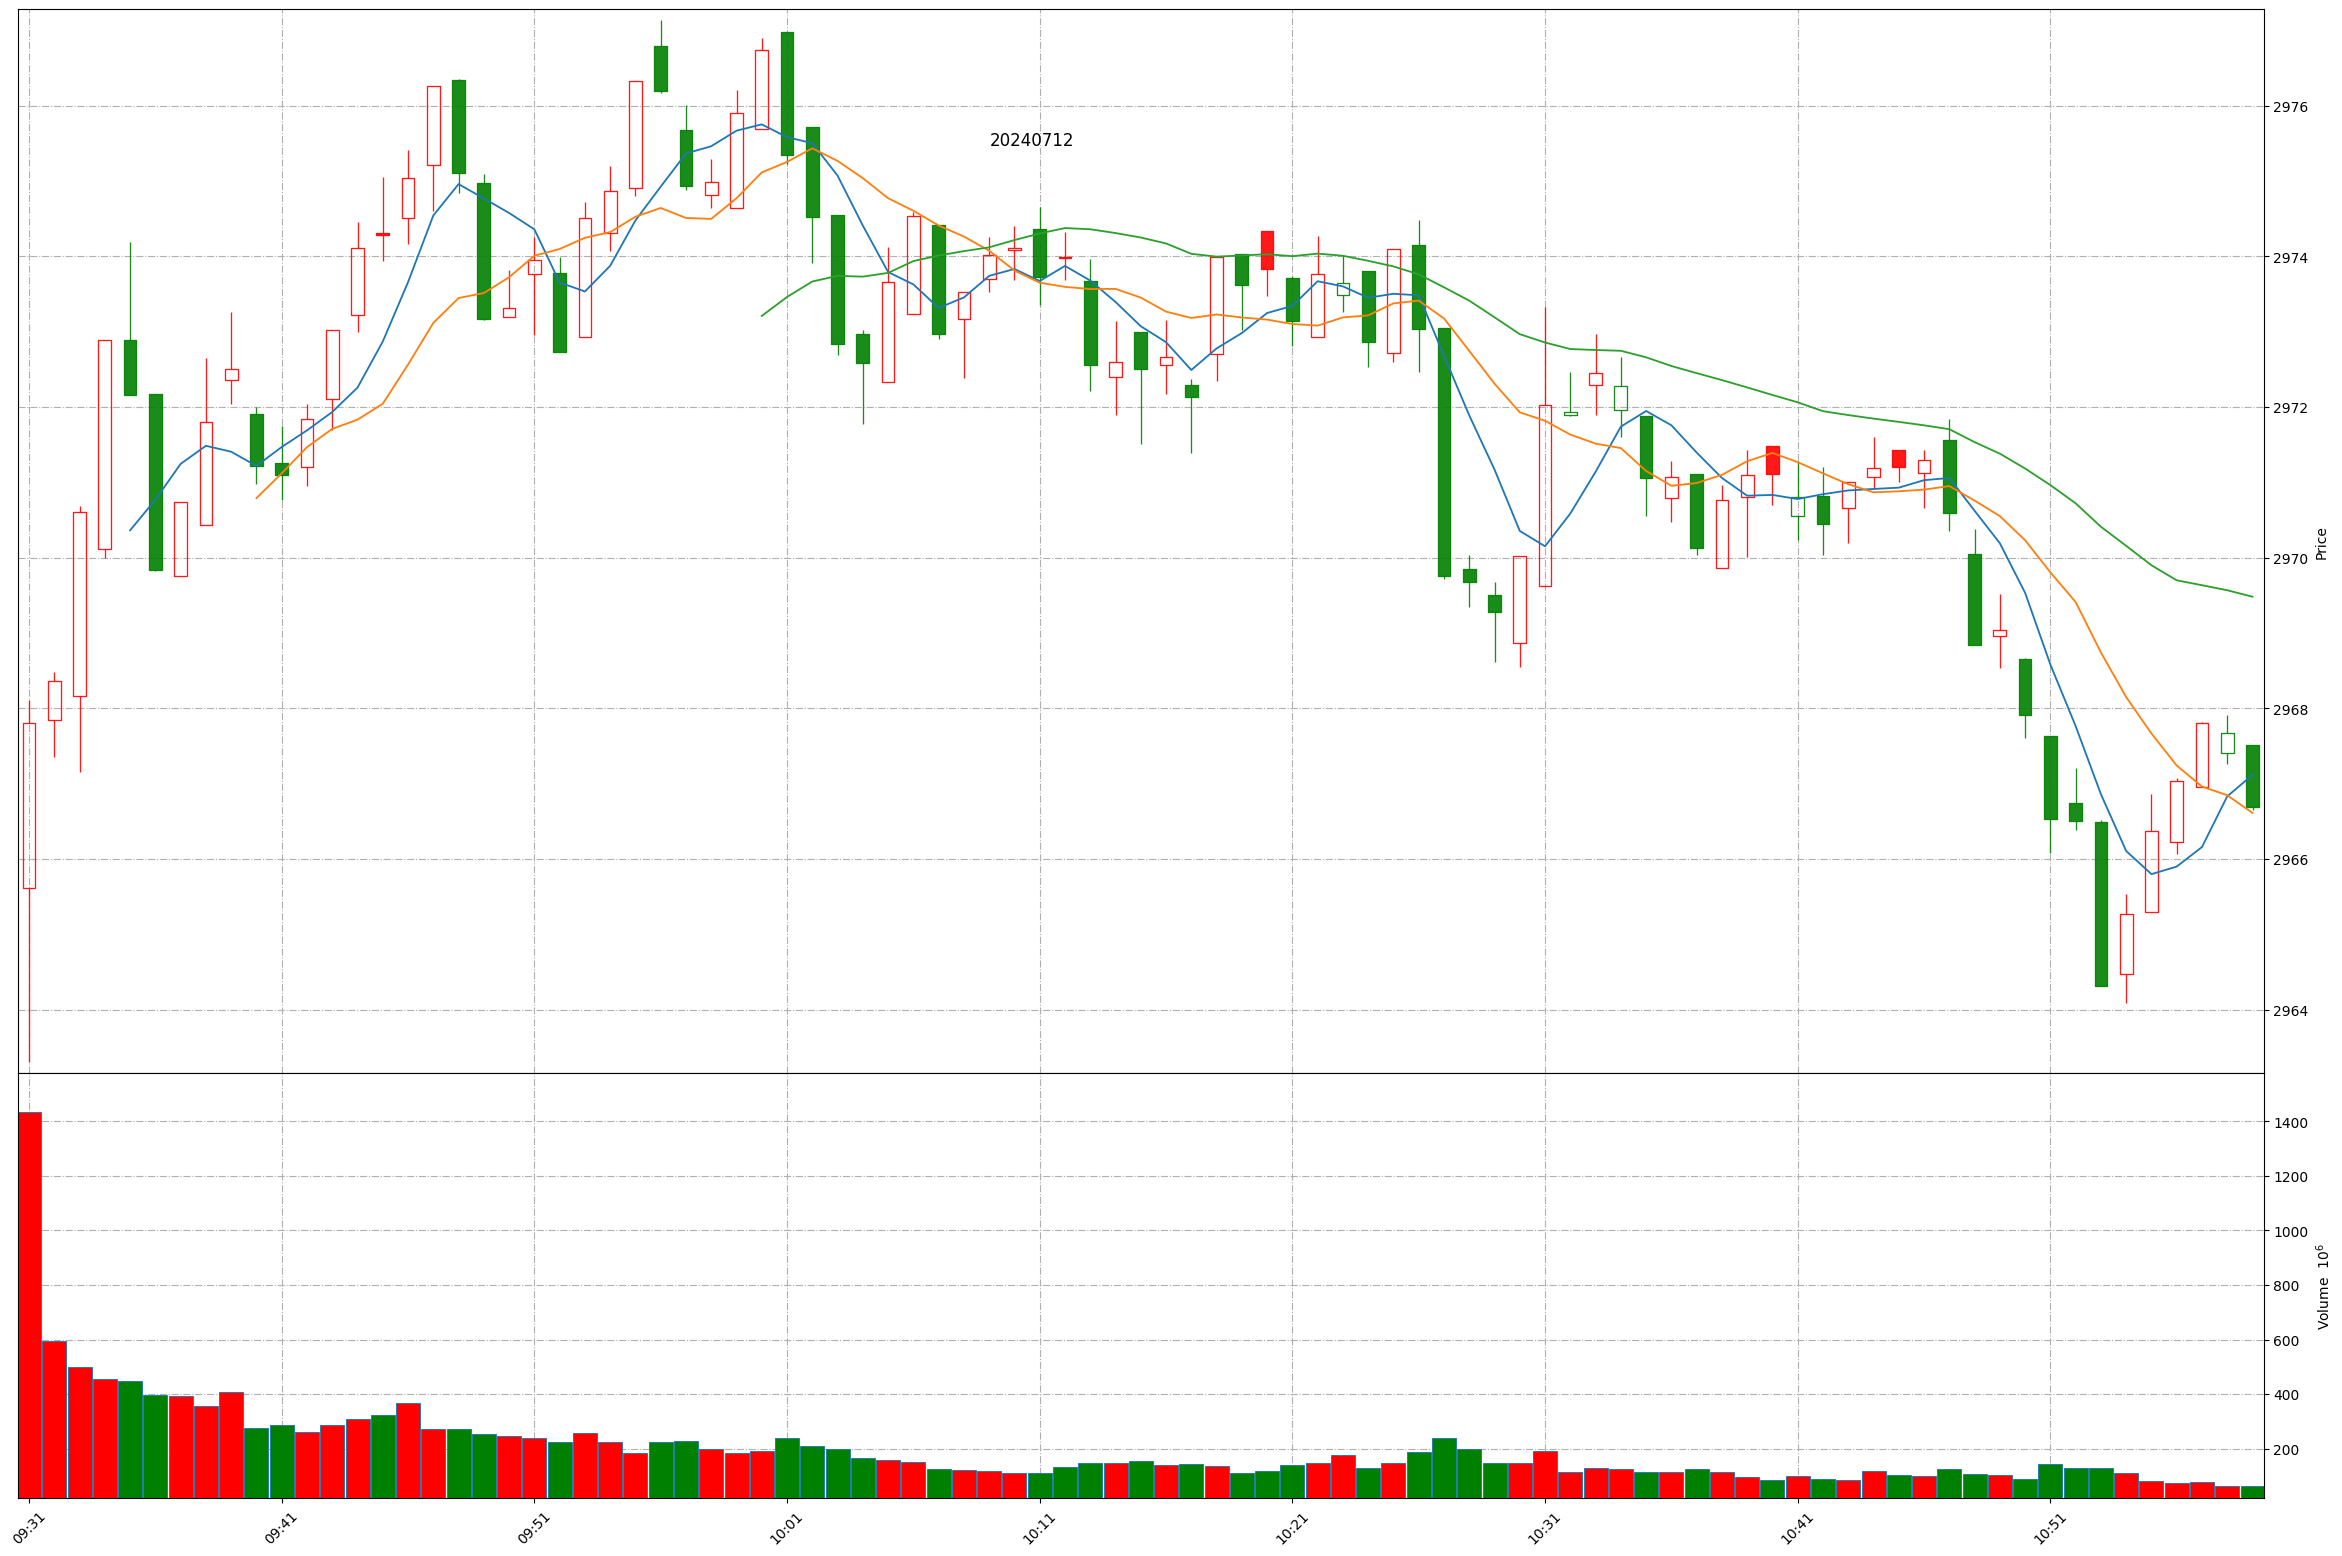
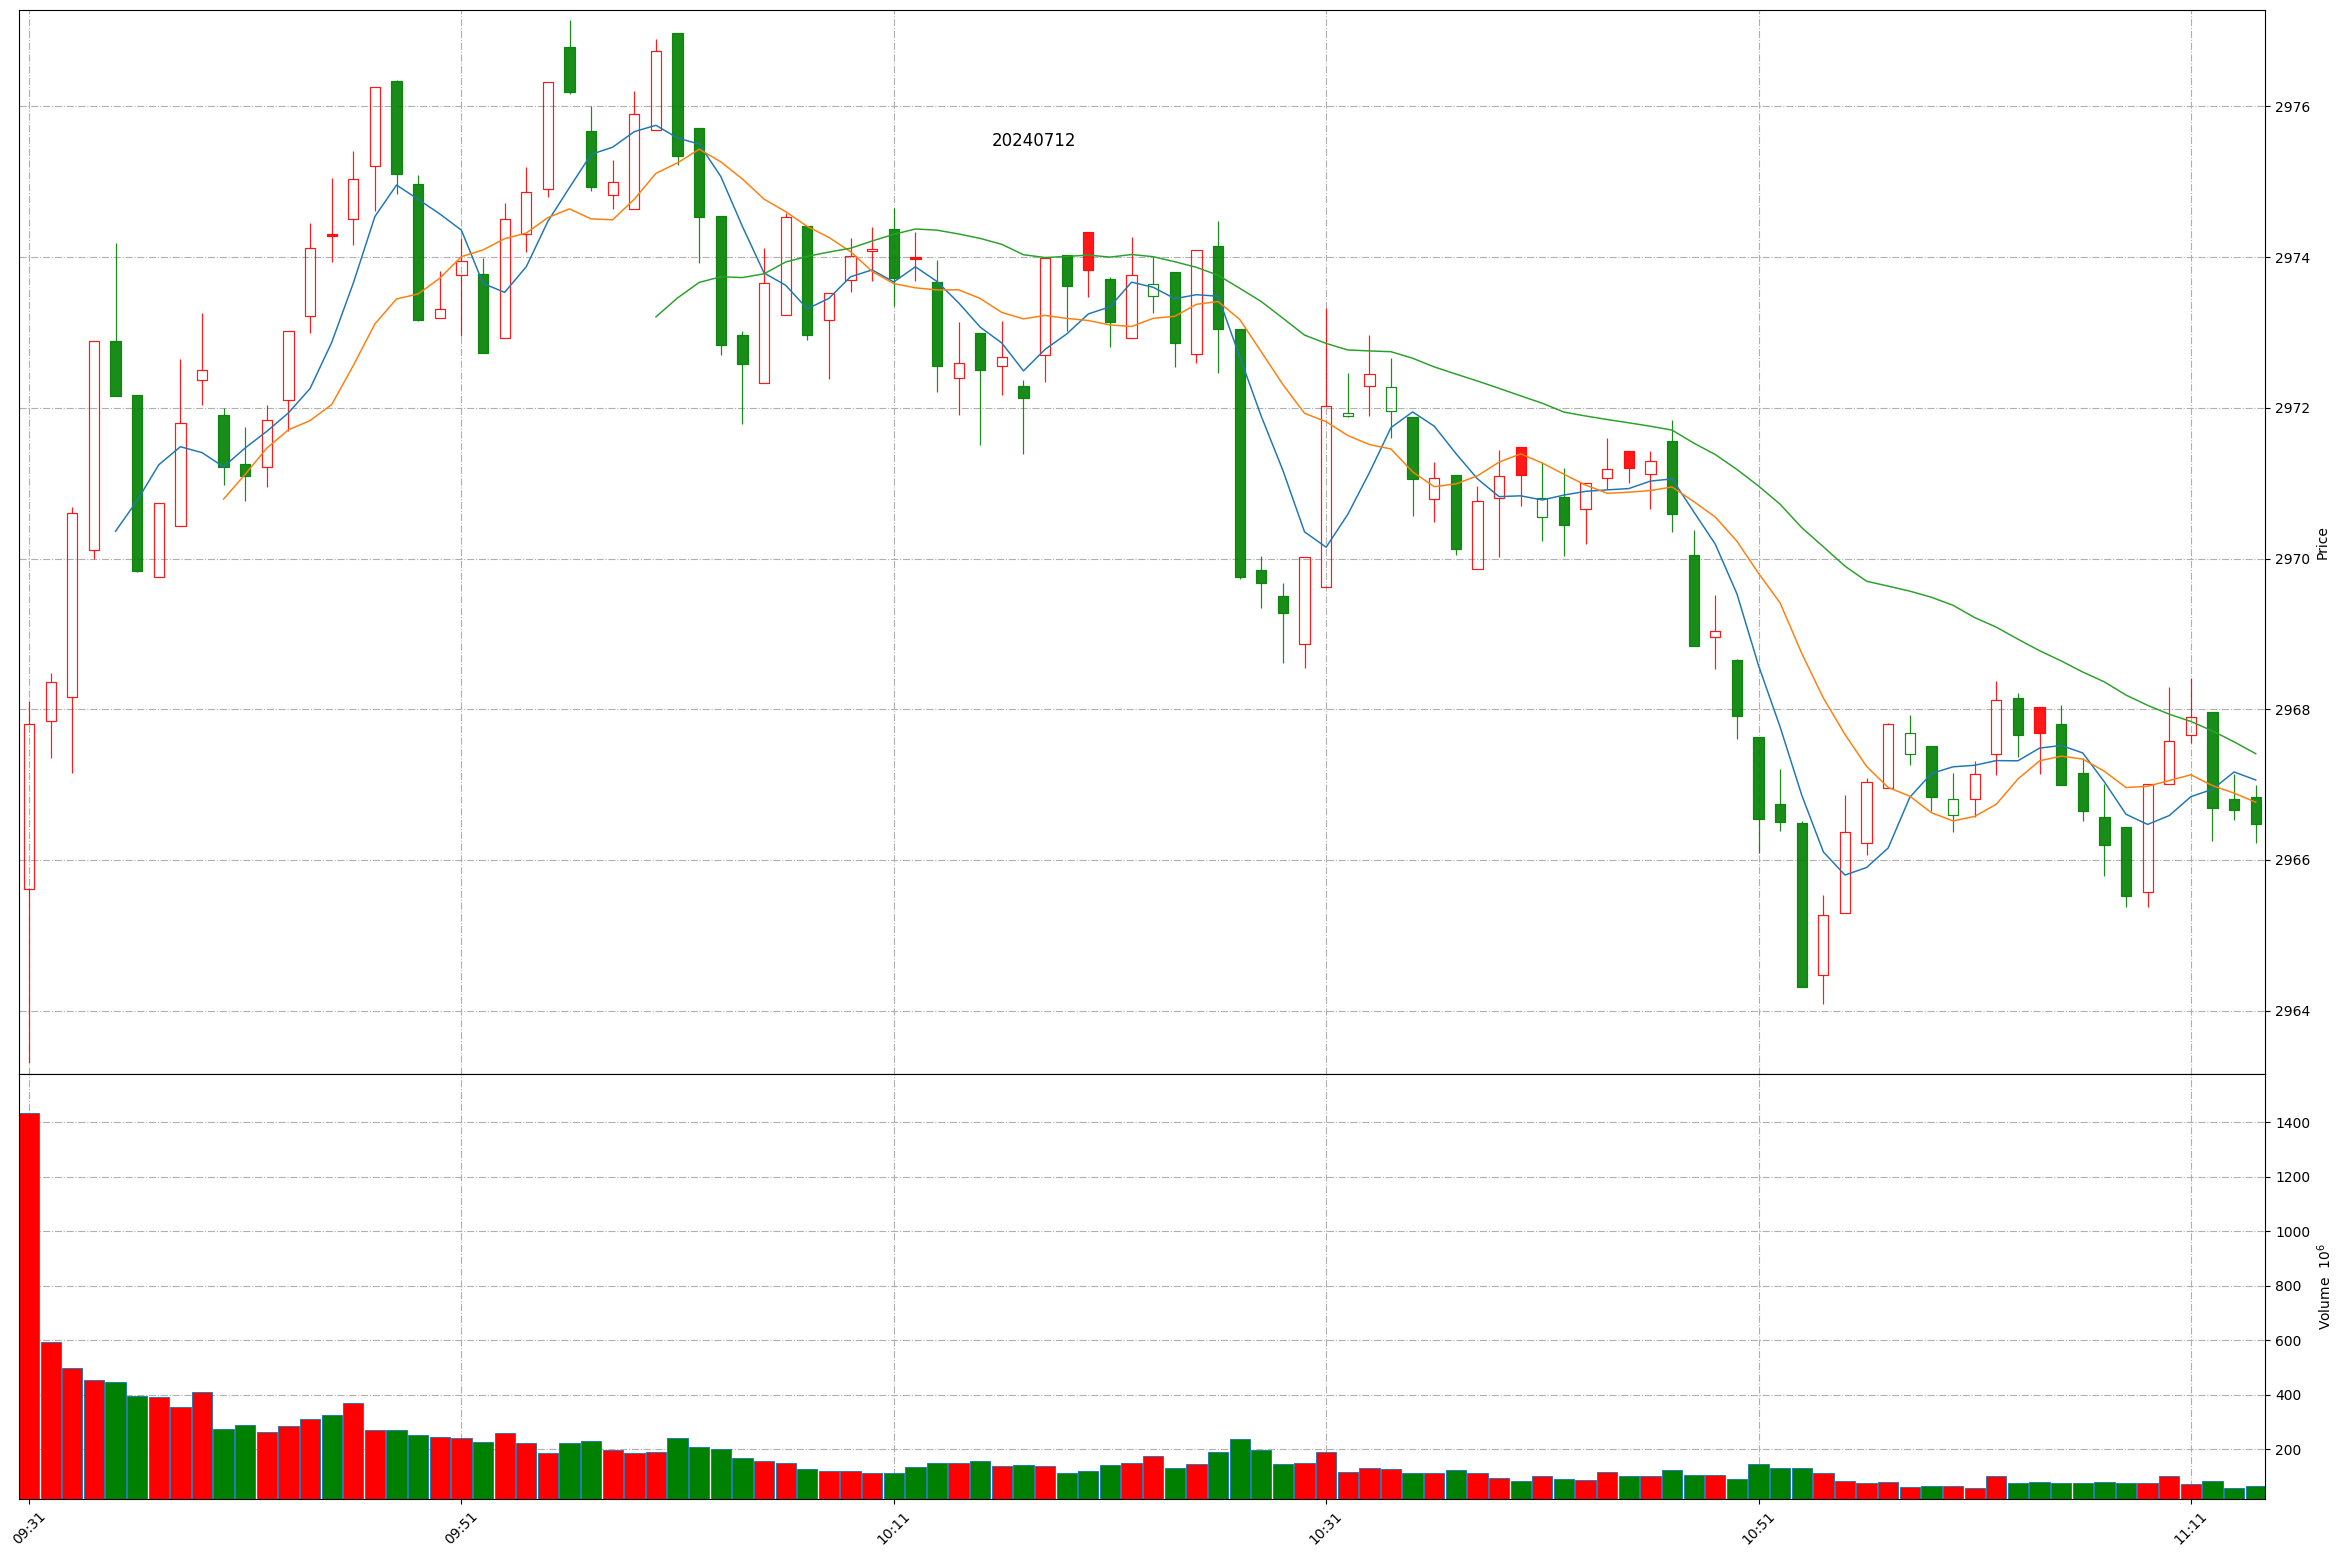
Github action update at 2024-07-12 11:14:29.

diff --git a/README.md b/README.md
@@ -1,11 +1,11 @@
 
 # Daily-A-share-market-quotes 每日 A 股指数（5min 更新）- 20240712
 
-### 上证指数 20240712 10:59
+### 上证指数 20240712 11:14
 ![](./fig/2024/7/20240712-sh000001.png)
 
-### 深证成指 20240712 10:59
+### 深证成指 20240712 11:14
 ![](./fig/2024/7/20240712-sz399001.png)
 
-### 北证50 20240712 10:59
+### 北证50 20240712 11:14
 ![](./fig/2024/7/20240712-bj899050.png)
